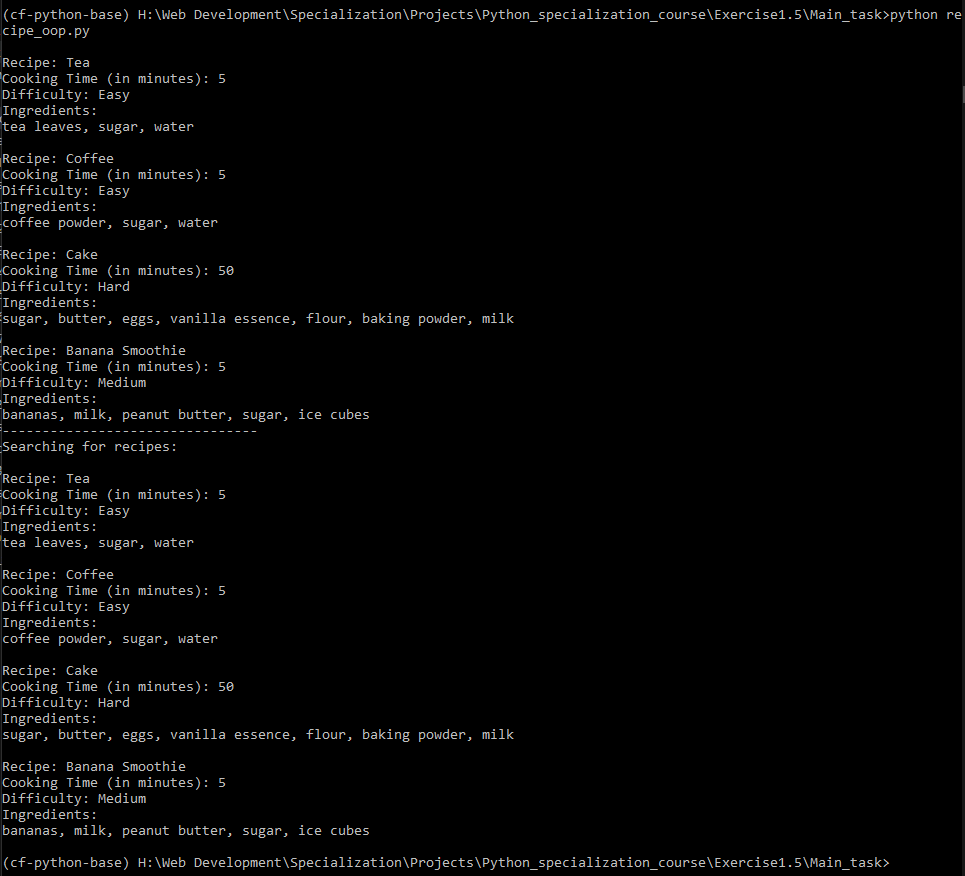
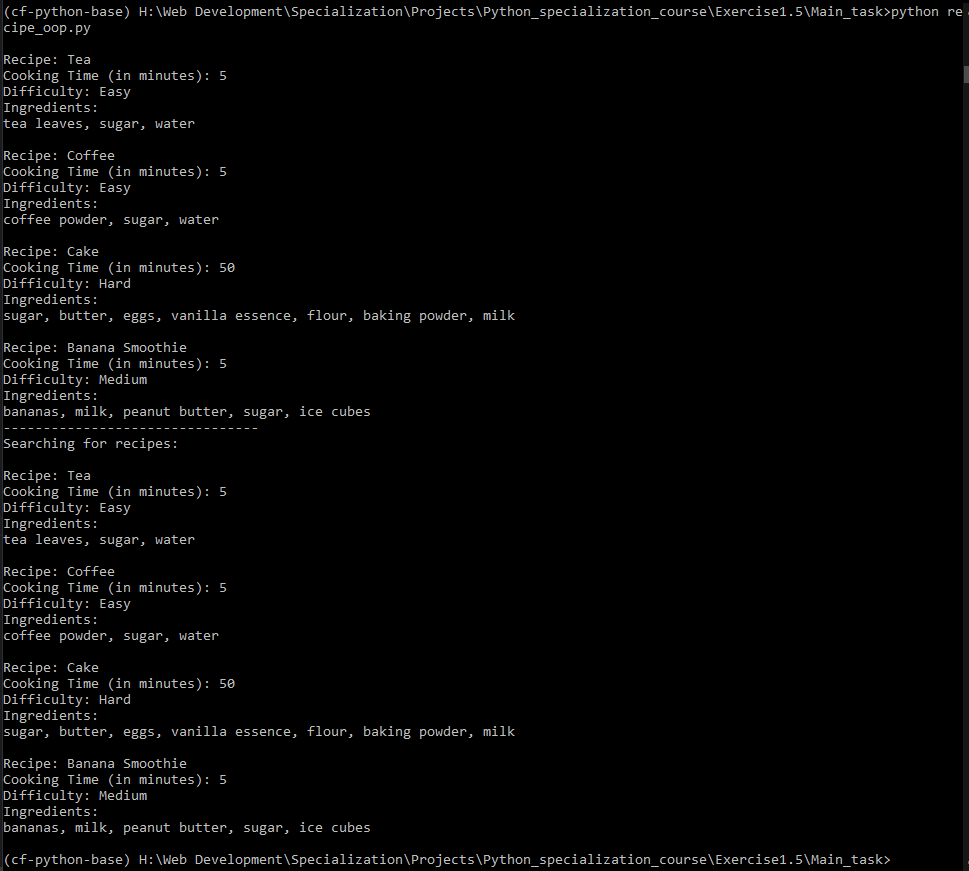
Fixed 'recipe_search()' based on task instructions

Changed region(s): [[0.0, 0.0, 0.9948, 1.0], [0.9948, 0.062, 1.0, 0.124], [0.3109, 0.465, 0.3731, 0.496]]

diff --git a/Exercise1.5/Main_task/recipe_oop.py b/Exercise1.5/Main_task/recipe_oop.py
@@ -72,16 +72,13 @@ class Recipe():
                 self.all_ingredients.append(ingredient)
 
     def recipe_search(data, search_term):
-        printed_recipes= []
         for recipe in data:
-            for search_item in search_term:
-                if recipe.search_ingredient(search_item.lower()) == True:
+            if recipe._name in printed_recipes:
+                continue
+            else:
+                if recipe.search_ingredient(search_term.lower()) == True:
                     print(recipe)
                     printed_recipes.append(recipe.name)
-                    break          
-
-        if len(printed_recipes) < 1:
-            print("No recipes found.")
 
     def __str__(self):
         output = "\nRecipe: "+ self.name + \
@@ -113,4 +110,10 @@ search_criteria = ["Water", "Sugar", "Bananas"]
 print("--------------------------------")
 print("Searching for recipes: ")
 
-Recipe.recipe_search(recipes_list, search_criteria)
+printed_recipes= []
+
+for search_term in search_criteria:
+    Recipe.recipe_search(recipes_list, search_term)
+
+if len(printed_recipes) < 1:
+    print("No recipes found.")
